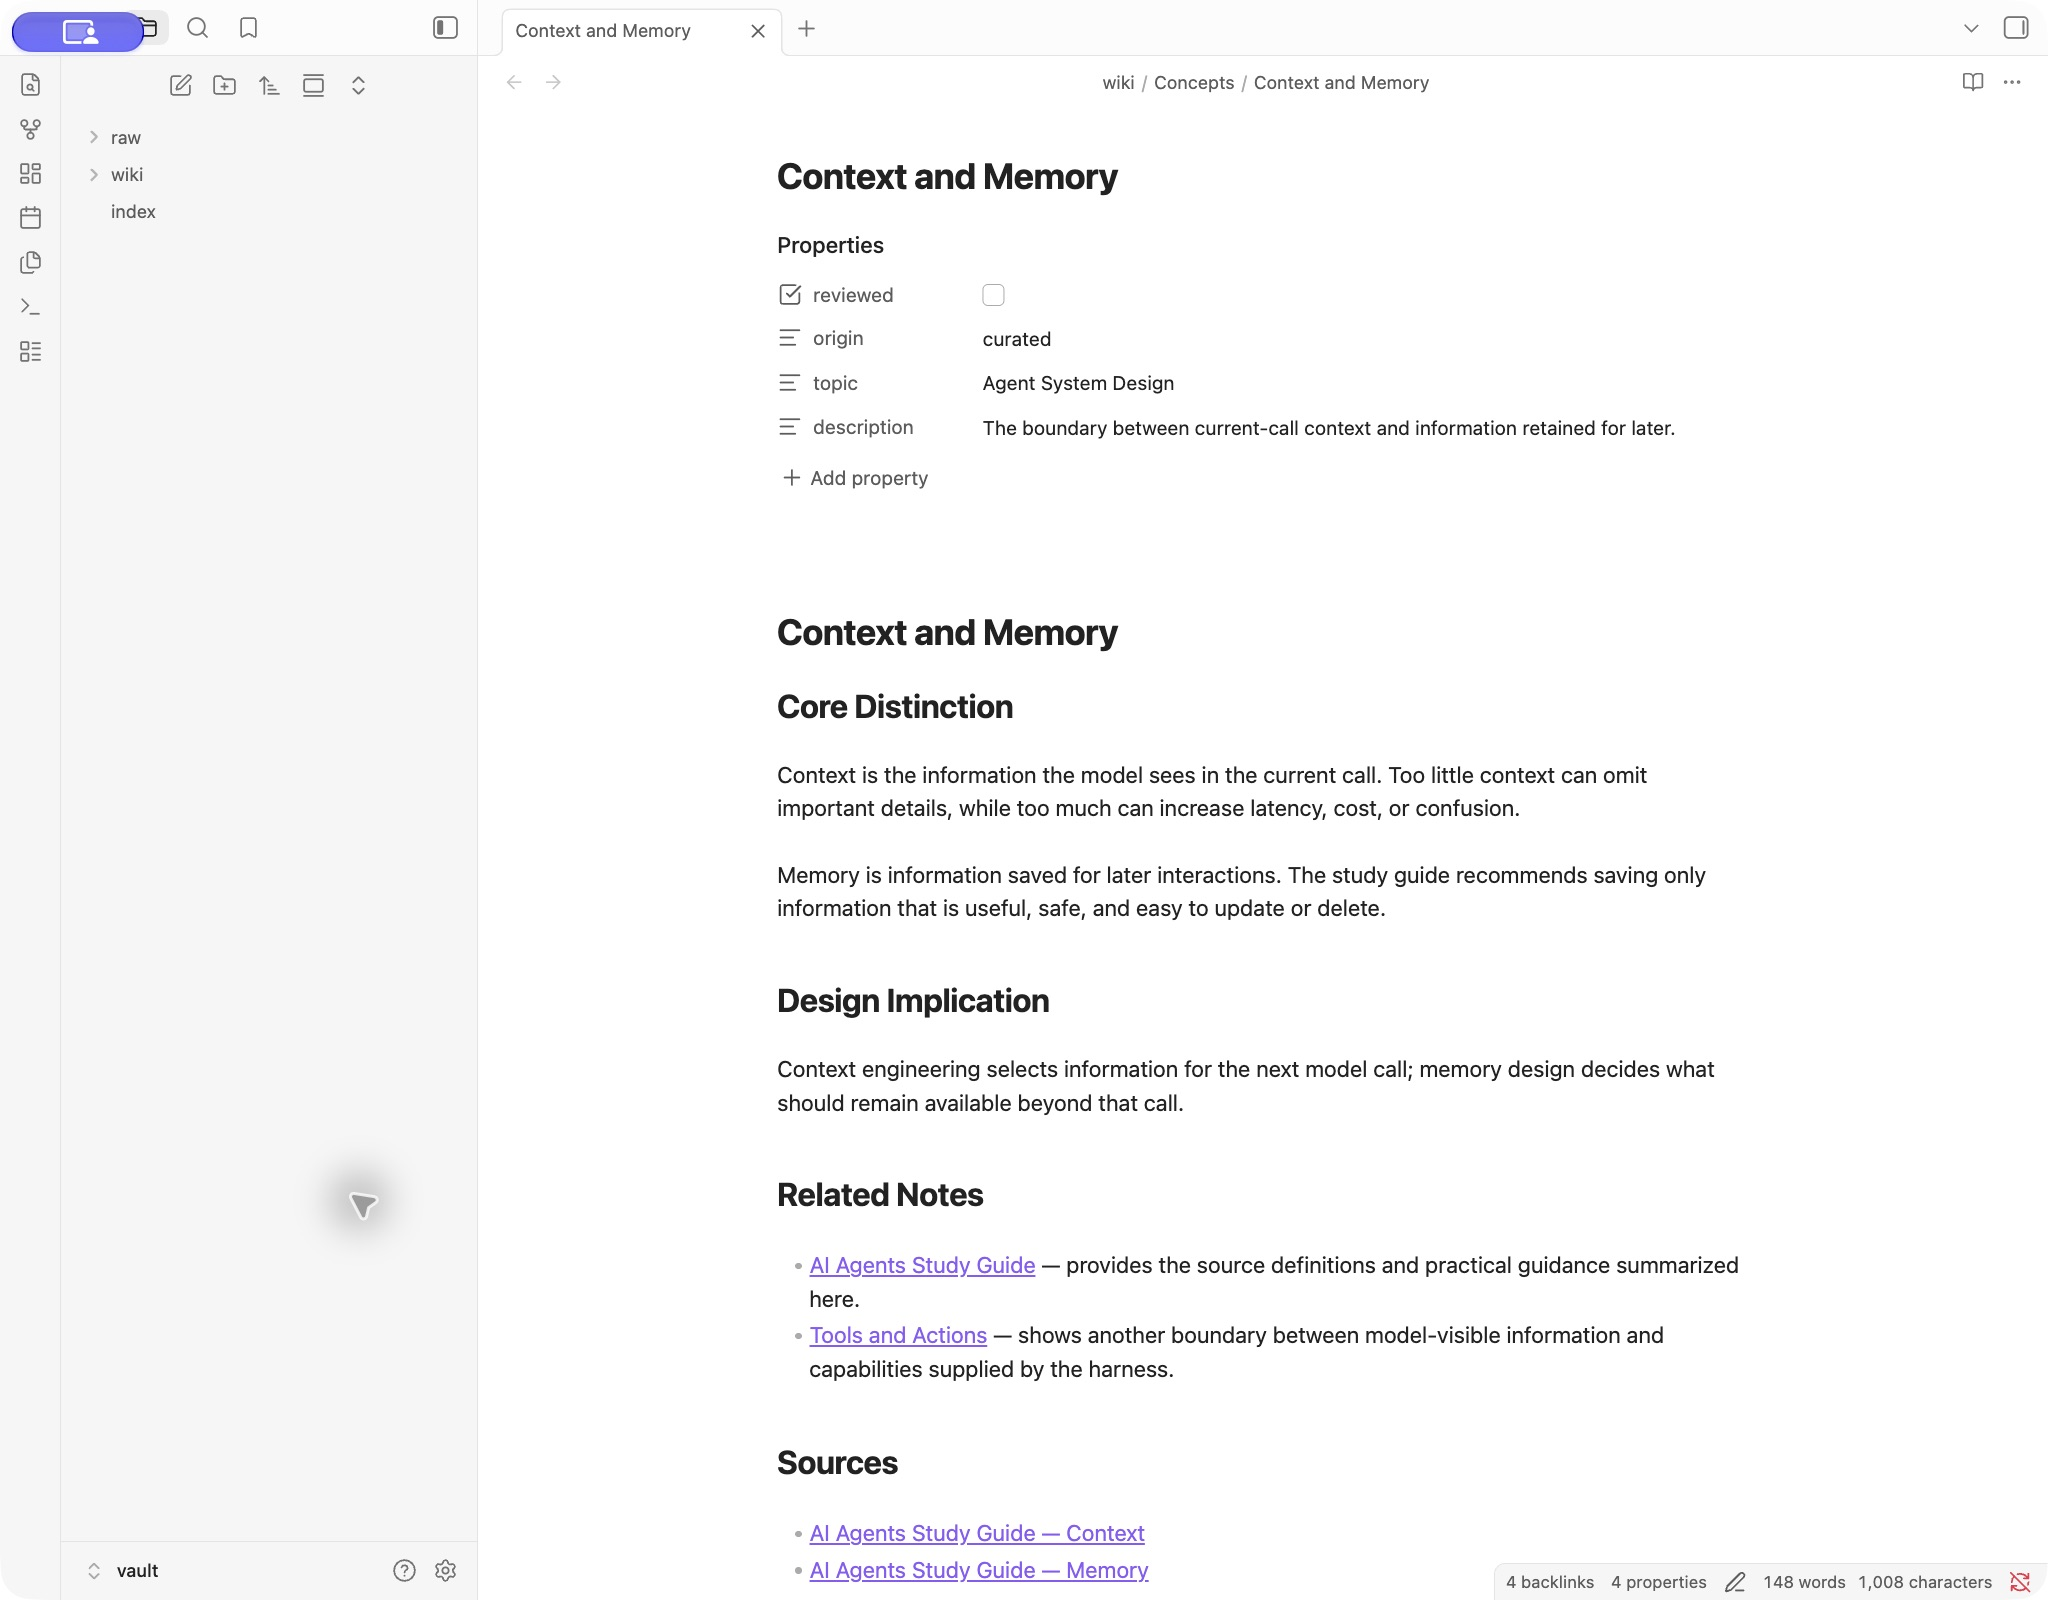
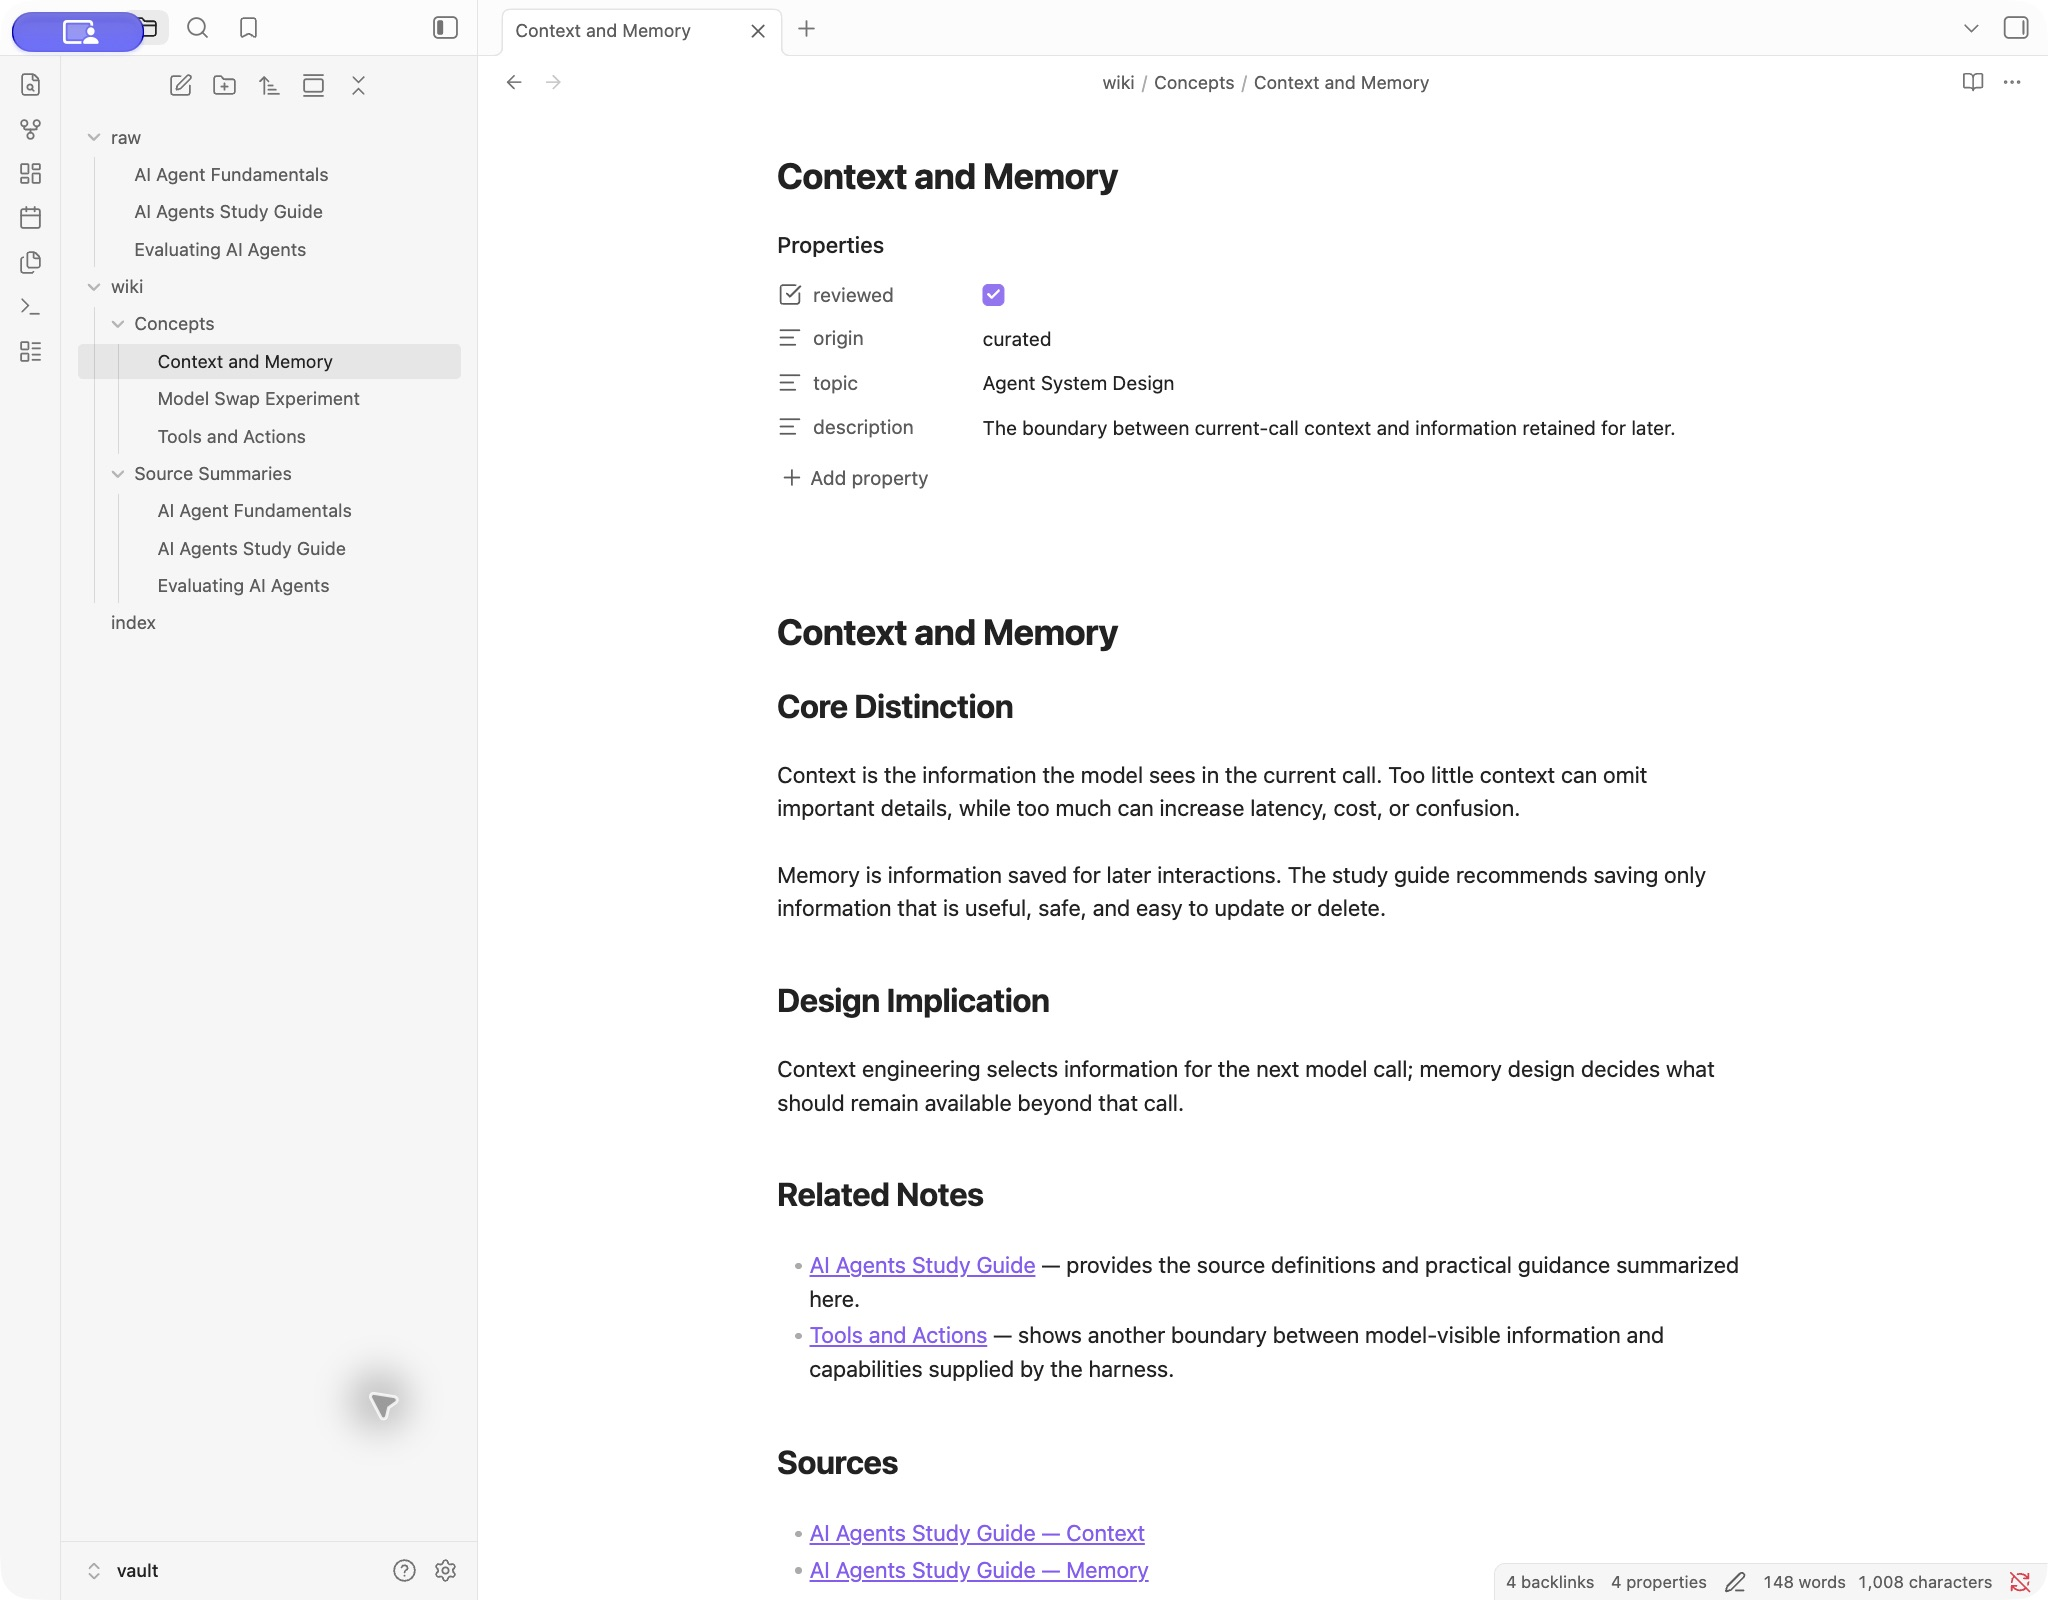
Record completed human note review

diff --git a/README.md b/README.md
@@ -132,7 +132,7 @@ Automatic chat retrieval follows a deterministic, model-free rule. Explicit word
 
 Ingestion always writes the model's verbatim note output to ignored `data/drafts/`. A missing source-summary note is created with `reviewed: false`; a generated and still-unreviewed note may be refreshed in place without creating a duplicate. A note marked `reviewed: true`, a protected legacy note, or a curated note is preserved while the new draft waits for review.
 
-The v1 source summaries were substantially rewritten during human review, beyond the original Gemma drafts. In particular, the 24,000-character draft budget exposed Gemma to only about 18% of the approximately 129,000-character `Evaluating AI Agents.md`, while the final v1 summary incorporated material from later sections. The v2 evidence therefore preserves the actual regenerated drafts and an actual diff against the committed notes. A reviewer must check each note against the unchanged original before setting `reviewed: true`.
+The v1 source summaries were substantially rewritten during human review, beyond the original Gemma drafts. In particular, the 24,000-character draft budget exposed Gemma to only about 18% of the approximately 129,000-character `Evaluating AI Agents.md`, while the final v1 summary incorporated material from later sections. The v2 evidence therefore preserves the actual regenerated drafts and an actual diff against the committed notes. On 2026-09-29, the repository owner confirmed that the six current notes had been reviewed against the originals; their frontmatter now records `reviewed: true`.
 
 ## Measurement Definitions
 
@@ -193,7 +193,7 @@ One macOS sandbox session denied DNS and direct TCP access to the CLI and every 
 
 ### V2 Obsidian Evidence
 
-The refreshed captures show the current vault without image editing or compositing. Notes remain visibly `reviewed: false` pending the repository owner's source review.
+The refreshed captures show the current vault without image editing or compositing. The note capture visibly records the repository owner's completed review as `reviewed: true`.
 
 ![V2 note properties, related notes, and source links](evidence/screenshots/obsidian-note-v2.png)
 

diff --git a/docs/HUMAN-STEPS.md b/docs/HUMAN-STEPS.md
@@ -1,8 +1,8 @@
-# Human Steps Before Merge
+# Human Review and Screenshot Record
 
-The code, local-model runs, terminal evidence, and automated checks can be completed by the implementation agent. The following content decisions still require the repository owner's direct review. Do not mark these complete until they have actually been performed.
+The repository owner confirmed completion of the source review on 2026-09-29. This file preserves the procedure that was followed and records the completed screenshot set.
 
-## 1. Review Notes and Gemma Drafts
+## 1. Review Notes and Gemma Drafts — Complete
 
 1. Open every Markdown file in `vault/wiki/Concepts/` and `vault/wiki/Source Summaries/`.
 2. Open the corresponding unchanged original in `vault/raw/`.
@@ -31,4 +31,4 @@ git commit -m "Complete human note review and refresh Obsidian evidence"
 git push
 ```
 
-Before committing, verify that `vault/raw/` is unchanged and that no private information or absolute personal path appears in the screenshots.
+Before committing, verify that `vault/raw/` is unchanged and that no private information or absolute personal path appears in the screenshots. This verification is repeated in the final automated checks.

diff --git a/docs/SUBMISSION-CHECKLIST.md b/docs/SUBMISSION-CHECKLIST.md
@@ -1,6 +1,6 @@
 # Submission Checklist
 
-This checklist maps assignment requirements to repository evidence. A checked item must be supported by a committed file; pending review and screenshots remain unchecked until they are actually complete.
+This checklist maps assignment requirements to repository evidence. A checked item must be supported by a committed file.
 
 ## Repository and Runtime
 
@@ -16,7 +16,7 @@ This checklist maps assignment requirements to repository evidence. A checked it
 - [x] Source summaries and subject-level concept notes use distinct folders and vault-root links.
 - [x] index.md is grouped by frontmatter topic and provides a navigation path to notes and originals.
 - [x] Automated tests require every authored wikilink to resolve to exactly one file.
-- [ ] Every v2 note has been compared with the original and marked reviewed: true.
+- [x] The repository owner confirmed review of every v2 note against the originals; all six notes are marked reviewed: true.
 
 Review instructions: [HUMAN-STEPS.md](HUMAN-STEPS.md).
 

diff --git a/evidence/ingest-drafts-v2/REVIEW.md b/evidence/ingest-drafts-v2/REVIEW.md
@@ -4,7 +4,7 @@ Review date: 2026-09-29 PDT
 
 These three files are the verbatim outputs written by `wiki ingest` during the successful network-denied v2 demonstration. They were copied from the disposable demonstration clone before it was removed. They have not been edited to resemble the committed wiki notes.
 
-The comparison below records the relationship between each actual Gemma draft and its protected v1 source summary. It does not mark the wiki notes `reviewed: true`; that frontmatter value remains reserved for the repository owner's direct source review.
+The comparison below records the relationship between each actual Gemma draft and its protected v1 source summary. The repository owner subsequently confirmed direct source review on 2026-09-29, after which all six current notes were marked `reviewed: true`.
 
 ## AI Agent Fundamentals
 

diff --git a/vault/wiki/Source Summaries/AI Agent Fundamentals.md b/vault/wiki/Source Summaries/AI Agent Fundamentals.md
@@ -1,7 +1,6 @@
 ---
-reviewed: false
+reviewed: true
 origin: legacy-v1
-ingest_protected: true
 source: raw/AI Agent Fundamentals.md
 source_sha256: 7b40365e7f037ae8dbc6d94fb570ff92a43d038a489824b91e06105d2a17e3d7
 upstream_revision: b3946b1d09d29c65736e219d48a8a736a2c52154

diff --git a/vault/wiki/Source Summaries/AI Agents Study Guide.md b/vault/wiki/Source Summaries/AI Agents Study Guide.md
@@ -1,7 +1,6 @@
 ---
-reviewed: false
+reviewed: true
 origin: legacy-v1
-ingest_protected: true
 source: raw/AI Agents Study Guide.md
 source_sha256: 04e1b967117003ed9a898d073572f23d2efe89cd9f9339ddbd9910e93f43ac1f
 upstream_revision: 25b7985f3b2dc37a84f4a7387ccd3c9f0e5b1595

diff --git a/vault/wiki/Source Summaries/Evaluating AI Agents.md b/vault/wiki/Source Summaries/Evaluating AI Agents.md
@@ -1,7 +1,6 @@
 ---
-reviewed: false
+reviewed: true
 origin: legacy-v1
-ingest_protected: true
 source: raw/Evaluating AI Agents.md
 source_sha256: 813232a986ca3c16ba47d27c7f1d29903f7f1162df6456cba13ce899acbc3944
 upstream_revision: d0daf079e7c8da56670886b48c329e9f9fc8281d

diff --git a/vault/wiki/Concepts/Context and Memory.md b/vault/wiki/Concepts/Context and Memory.md
@@ -1,5 +1,5 @@
 ---
-reviewed: false
+reviewed: true
 origin: curated
 topic: Agent System Design
 description: The boundary between current-call context and information retained for later.

diff --git a/vault/wiki/Concepts/Model Swap Experiment.md b/vault/wiki/Concepts/Model Swap Experiment.md
@@ -1,5 +1,5 @@
 ---
-reviewed: false
+reviewed: true
 origin: curated
 topic: Agent Evaluation
 description: A controlled experiment for distinguishing model and harness bottlenecks.

diff --git a/vault/wiki/Concepts/Tools and Actions.md b/vault/wiki/Concepts/Tools and Actions.md
@@ -1,5 +1,5 @@
 ---
-reviewed: false
+reviewed: true
 origin: curated
 topic: Agent Foundations
 description: How harness-provided tools enable an agent to perform actions.
